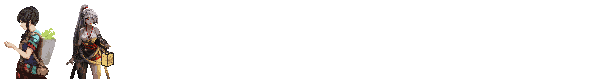
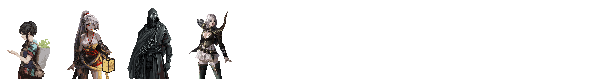
Build 48
More characters

Changed region(s): [[0.0, 0.05, 0.39, 1.0]]

diff --git a/core/src/com/jaredzhao/castleblitz/systems/RenderSystem.java b/core/src/com/jaredzhao/castleblitz/systems/RenderSystem.java
@@ -154,7 +154,7 @@ public class RenderSystem extends EntitySystem {
      * @param deltaTime
      */
     public void update(float deltaTime) {
-        Gdx.gl.glClearColor(0f, 0f, 0f, 1f); //Background color
+        Gdx.gl.glClearColor(1f, 0f, 0f, 1f); //Background color
         //Gdx.gl.glClearColor(.06f, .06f, .22f, 1f); //Background color
         Gdx.gl.glClear(GL20.GL_COLOR_BUFFER_BIT | GL20.GL_DEPTH_BUFFER_BIT); //Clear screen
 
@@ -166,7 +166,7 @@ public class RenderSystem extends EntitySystem {
 
         if(settingsComponent.isPaused){
             frameBufferA.begin();
-            Gdx.gl.glClearColor(0f, 0f, 0f, 1f); //Background color
+            Gdx.gl.glClearColor(1f, 0f, 0f, 1f); //Background color
             Gdx.gl.glClear(GL20.GL_COLOR_BUFFER_BIT | GL20.GL_DEPTH_BUFFER_BIT); //Clear screen
         }
 
@@ -179,7 +179,7 @@ public class RenderSystem extends EntitySystem {
 
             frameBufferB.begin();
             blurBatch.begin();
-            Gdx.gl.glClearColor(0f, 0f, 0f, 1f); //Background color
+            Gdx.gl.glClearColor(1f, 0f, 0f, 1f); //Background color
             Gdx.gl.glClear(GL20.GL_COLOR_BUFFER_BIT | GL20.GL_DEPTH_BUFFER_BIT); //Clear screen
             blurBatch.shader.setUniformf("radius", .008f);
             blurBatch.shader.setUniformf("dir", 0f, 1f);
@@ -190,7 +190,7 @@ public class RenderSystem extends EntitySystem {
 
             frameBufferA.begin();
             blurBatch.begin();
-            Gdx.gl.glClearColor(0f, 0f, 0f, 1f); //Background color
+            Gdx.gl.glClearColor(1f, 0f, 0f, 1f); //Background color
             Gdx.gl.glClear(GL20.GL_COLOR_BUFFER_BIT | GL20.GL_DEPTH_BUFFER_BIT); //Clear screen
             blurBatch.shader.setUniformf("dir", 1f, 0f);
             blurBatch.draw(frameBufferRegion, 0, 0, Gdx.graphics.getWidth(), Gdx.graphics.getHeight());
@@ -200,7 +200,7 @@ public class RenderSystem extends EntitySystem {
 
             frameBufferB.begin();
             blurBatch.begin();
-            Gdx.gl.glClearColor(0f, 0f, 0f, 1f); //Background color
+            Gdx.gl.glClearColor(1f, 0f, 0f, 1f); //Background color
             Gdx.gl.glClear(GL20.GL_COLOR_BUFFER_BIT | GL20.GL_DEPTH_BUFFER_BIT); //Clear screen
             blurBatch.shader.setUniformf("radius", .003f);
             blurBatch.shader.setUniformf("dir", 0f, 1f);
@@ -211,7 +211,7 @@ public class RenderSystem extends EntitySystem {
 
             frameBufferA.begin();
             blurBatch.begin();
-            Gdx.gl.glClearColor(0f, 0f, 0f, 1f); //Background color
+            Gdx.gl.glClearColor(1f, 0f, 0f, 1f); //Background color
             Gdx.gl.glClear(GL20.GL_COLOR_BUFFER_BIT | GL20.GL_DEPTH_BUFFER_BIT); //Clear screen
             blurBatch.shader.setUniformf("dir", 1f, 0f);
             blurBatch.draw(frameBufferRegion, 0, 0, Gdx.graphics.getWidth(), Gdx.graphics.getHeight());
@@ -221,7 +221,7 @@ public class RenderSystem extends EntitySystem {
 
             frameBufferB.begin();
             blurBatch.begin();
-            Gdx.gl.glClearColor(0f, 0f, 0f, 1f); //Background color
+            Gdx.gl.glClearColor(1f, 0f, 0f, 1f); //Background color
             Gdx.gl.glClear(GL20.GL_COLOR_BUFFER_BIT | GL20.GL_DEPTH_BUFFER_BIT); //Clear screen
             blurBatch.shader.setUniformf("radius", .001f);
             blurBatch.shader.setUniformf("dir", 0f, 1f);
@@ -231,7 +231,7 @@ public class RenderSystem extends EntitySystem {
             frameBufferB.end();
 
             blurBatch.begin();
-            Gdx.gl.glClearColor(0f, 0f, 0f, 1f); //Background color
+            Gdx.gl.glClearColor(1f, 0f, 0f, 1f); //Background color
             Gdx.gl.glClear(GL20.GL_COLOR_BUFFER_BIT | GL20.GL_DEPTH_BUFFER_BIT); //Clear screen
             blurBatch.shader.setUniformf("dir", 1f, 0f);
             blurBatch.draw(frameBufferRegion, 0, 0, Gdx.graphics.getWidth(), Gdx.graphics.getHeight());

diff --git a/core/src/com/jaredzhao/castleblitz/scenes/HomeScene.java b/core/src/com/jaredzhao/castleblitz/scenes/HomeScene.java
@@ -66,8 +66,10 @@ public class HomeScene extends Scene {
         ashleyEngine.addEntity(entityFactory.createStaticPositionUI("homeTeam", 18, -90, 16, 32));
         ashleyEngine.addEntity(entityFactory.createStaticPositionUI("homeBrigade", 36, -90, 16, 32));
         ashleyEngine.addEntity(entityFactory.createStaticPositionUI("battle", 0, 20, 64, 16));
-        ashleyEngine.addEntity(entityFactory.createPortrait("karen", -35, 0));
-        ashleyEngine.addEntity(entityFactory.createPortrait("nono", 35, 0));
+        ashleyEngine.addEntity(entityFactory.createPortrait("1", -105, 0));
+        ashleyEngine.addEntity(entityFactory.createPortrait("2", -35, 0));
+        ashleyEngine.addEntity(entityFactory.createPortrait("3", 35, 0));
+        ashleyEngine.addEntity(entityFactory.createPortrait("4", 105, 0));
         ashleyEngine.addEntity(entityFactory.createMusic(mapFactory.loadAvailableTracks(Gdx.files.internal("levels/home.lvl"))));
         settings = entityFactory.createSettings();
         settings.getComponent(SettingsComponent.class).homeScreen = "homeCastle";

diff --git a/core/src/com/jaredzhao/castleblitz/factories/AnimationFactory.java b/core/src/com/jaredzhao/castleblitz/factories/AnimationFactory.java
@@ -116,10 +116,14 @@ public class AnimationFactory {
     public Object[] createPortrait(String type){ //Create tile
         Object[] completeAnimation = new Object[2];
         ArrayList<Sprite> sprites = new ArrayList<Sprite>();
-        if(type.equals("karen")) {
+        if(type.equals("1")) {
             sprites.add(spriteRegion(portraits, 0, 0, 60, 80));
-        } else if(type.equals("nono")) {
+        } else if(type.equals("2")) {
             sprites.add(spriteRegion(portraits, 1, 0, 60, 80));
+        } else if(type.equals("3")) {
+            sprites.add(spriteRegion(portraits, 2, 0, 60, 80));
+        } else if(type.equals("4")) {
+            sprites.add(spriteRegion(portraits, 3, 0, 60, 80));
         }
         completeAnimation[0] = sprites;
         ArrayList<Integer> animations = new ArrayList<Integer>();

diff --git a/core/src/com/jaredzhao/castleblitz/GameEngine.java b/core/src/com/jaredzhao/castleblitz/GameEngine.java
@@ -17,7 +17,7 @@ public class GameEngine extends ApplicationAdapter {
 
 	public static int currentScene; //Current scene number
 
-	public static String version = "Build 47"; //Current build version
+	public static String version = "Build 48"; //Current build version
 
 	public static float lifetime;
 

diff --git a/desktop/src/com/jaredzhao/castleblitz/desktop/DesktopLauncher.java b/desktop/src/com/jaredzhao/castleblitz/desktop/DesktopLauncher.java
@@ -13,7 +13,7 @@ public class DesktopLauncher {
 
 		config.width = 1920;
 		config.height = 1080;
-		config.fullscreen = true;
+		//config.fullscreen = true;
 		config.vSyncEnabled = true;
 
 		new LwjglApplication(new GameEngine(), config);
